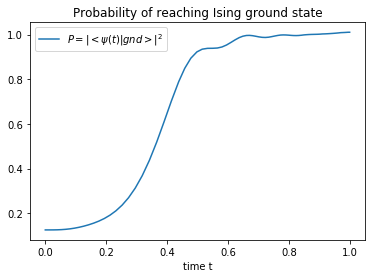
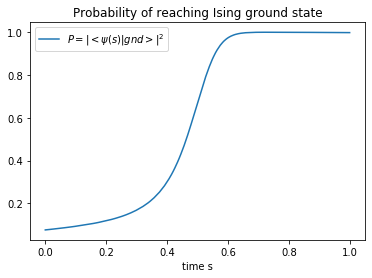
update notes for simulator

diff --git a/Notes/Notes.tex b/Notes/Notes.tex
@@ -553,17 +553,16 @@ This notebook is to solve time-dependent Schrodinger equation for quantum anneal
 
 Time dependent Hamiltoniain is
 \begin{align}
-H_{anneal}(t) =  \frac{-A(t)}{2} (\sum_i \sigma^x_i) + \frac{B(t)}{2} (\sum_{i>j} J_{ij} \sigma^z_i \sigma^z_j +\sum_i h_i \sigma^z_i ) 
+H_{anneal}(t) =  \frac{-1}{2} (\sum_i  A_i(t)\sigma^x_i) + \frac{1}{2} (\sum_{i>j} \frac{B_{i}(t)+B_{j}(t)}{2} J_{ij} \sigma^z_i \sigma^z_j +\sum_i B_{i}(t) h_i \sigma^z_i ) ,
 \end{align}
+where $A_i(t)$ and $B_{i}(t)$ are site-dependent annealing schedule functions. The site-dependence taking into account of possible annealing offsets.
 
 The goal is to solve 
 \begin{align}
-i \partial_t \psi(t) = H(t) \psi(t)
+i \partial_t \psi(t) = H(t) \psi(t) .
 \end{align}
-with initial condition
-\begin{align}
-\psi(t=0)= \otimes_i  |\rightarrow \rangle_i
-\end{align}
+
+The initial condition is the ground state of $H(s=0)$. This state is slightly different from the pure transverse  field eigenstate $\psi(t=0)= \otimes_i  |\rightarrow \rangle_i$, because the annealing schedule $B_i(s=0)> 0$.
 
 The time period is set to $[0,1]$. 
 
@@ -572,22 +571,14 @@ The probability to get the ground state at measurement is
 P = | \langle \psi (t)  | gnd \rangle |^2
 \end{align}
 
-For now the offset is included in the following way: 
-\begin{align}
-H_{offset}(t) =  \frac{-A(t)}{2} ( \sum_i c_i(t) \sigma^x_i) + \frac{B(t)}{2} (\sum_{i>j} \frac{c_i(t)+c_j(t)}{2} \sigma^z_i \sigma^z_j +\sum_i  c_i(t) \sigma^z_i ) 
-\end{align}
 
-
-So the total Hamiltonian is $H=H_{anneal}+H_{offset}$.
-
-Users can define functions $c_i(t)$, $A(t)$, $B(t)$ in the code.
 
 \begin{figure}[htb]
 	\centering
-	\includegraphics[width=0.5\textwidth]{annealingschedule.png}
+	%\includegraphics[width=0.5\textwidth]{annealingschedule.png}
 	\includegraphics[width=0.5\textwidth]{probt.png}
 	\caption{
-		\label{tdse} time-dependent Schrodinger equation simulation of quantum annealing.
+		\label{tdse} time-dependent Schrodinger equation simulation of quantum annealing. Annealing time=100 $\mu s$.
 	}
 \end{figure}
 
